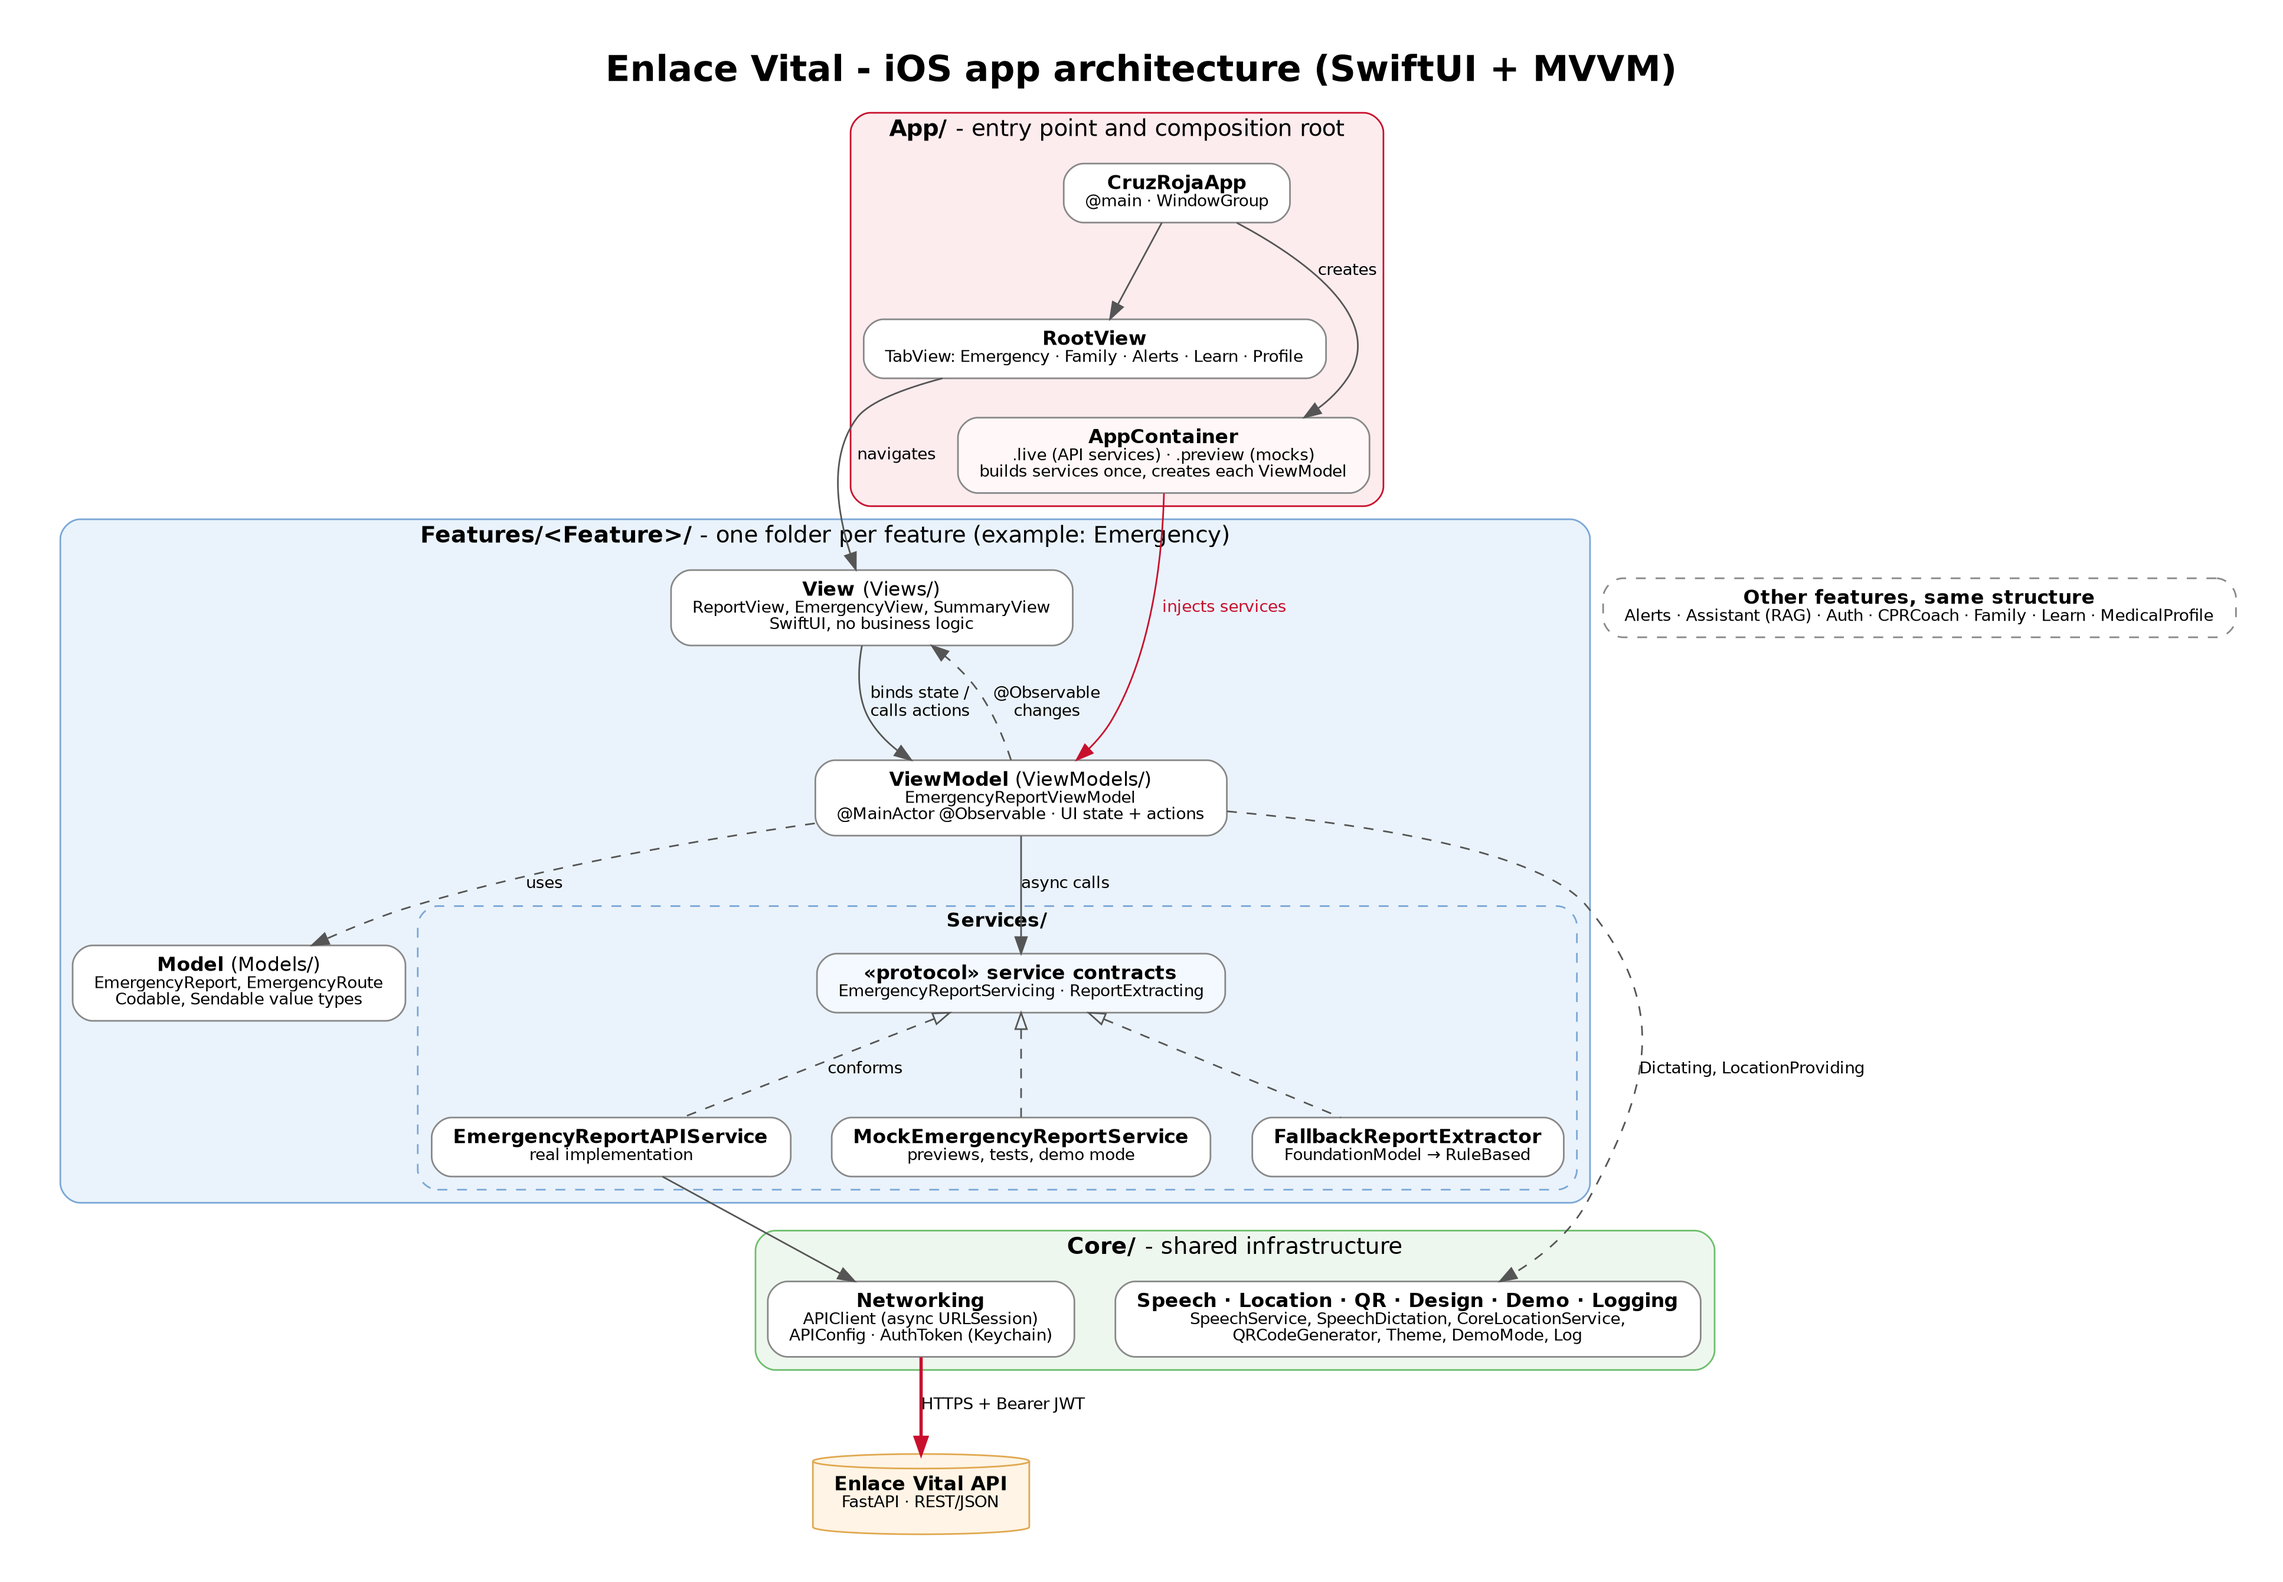
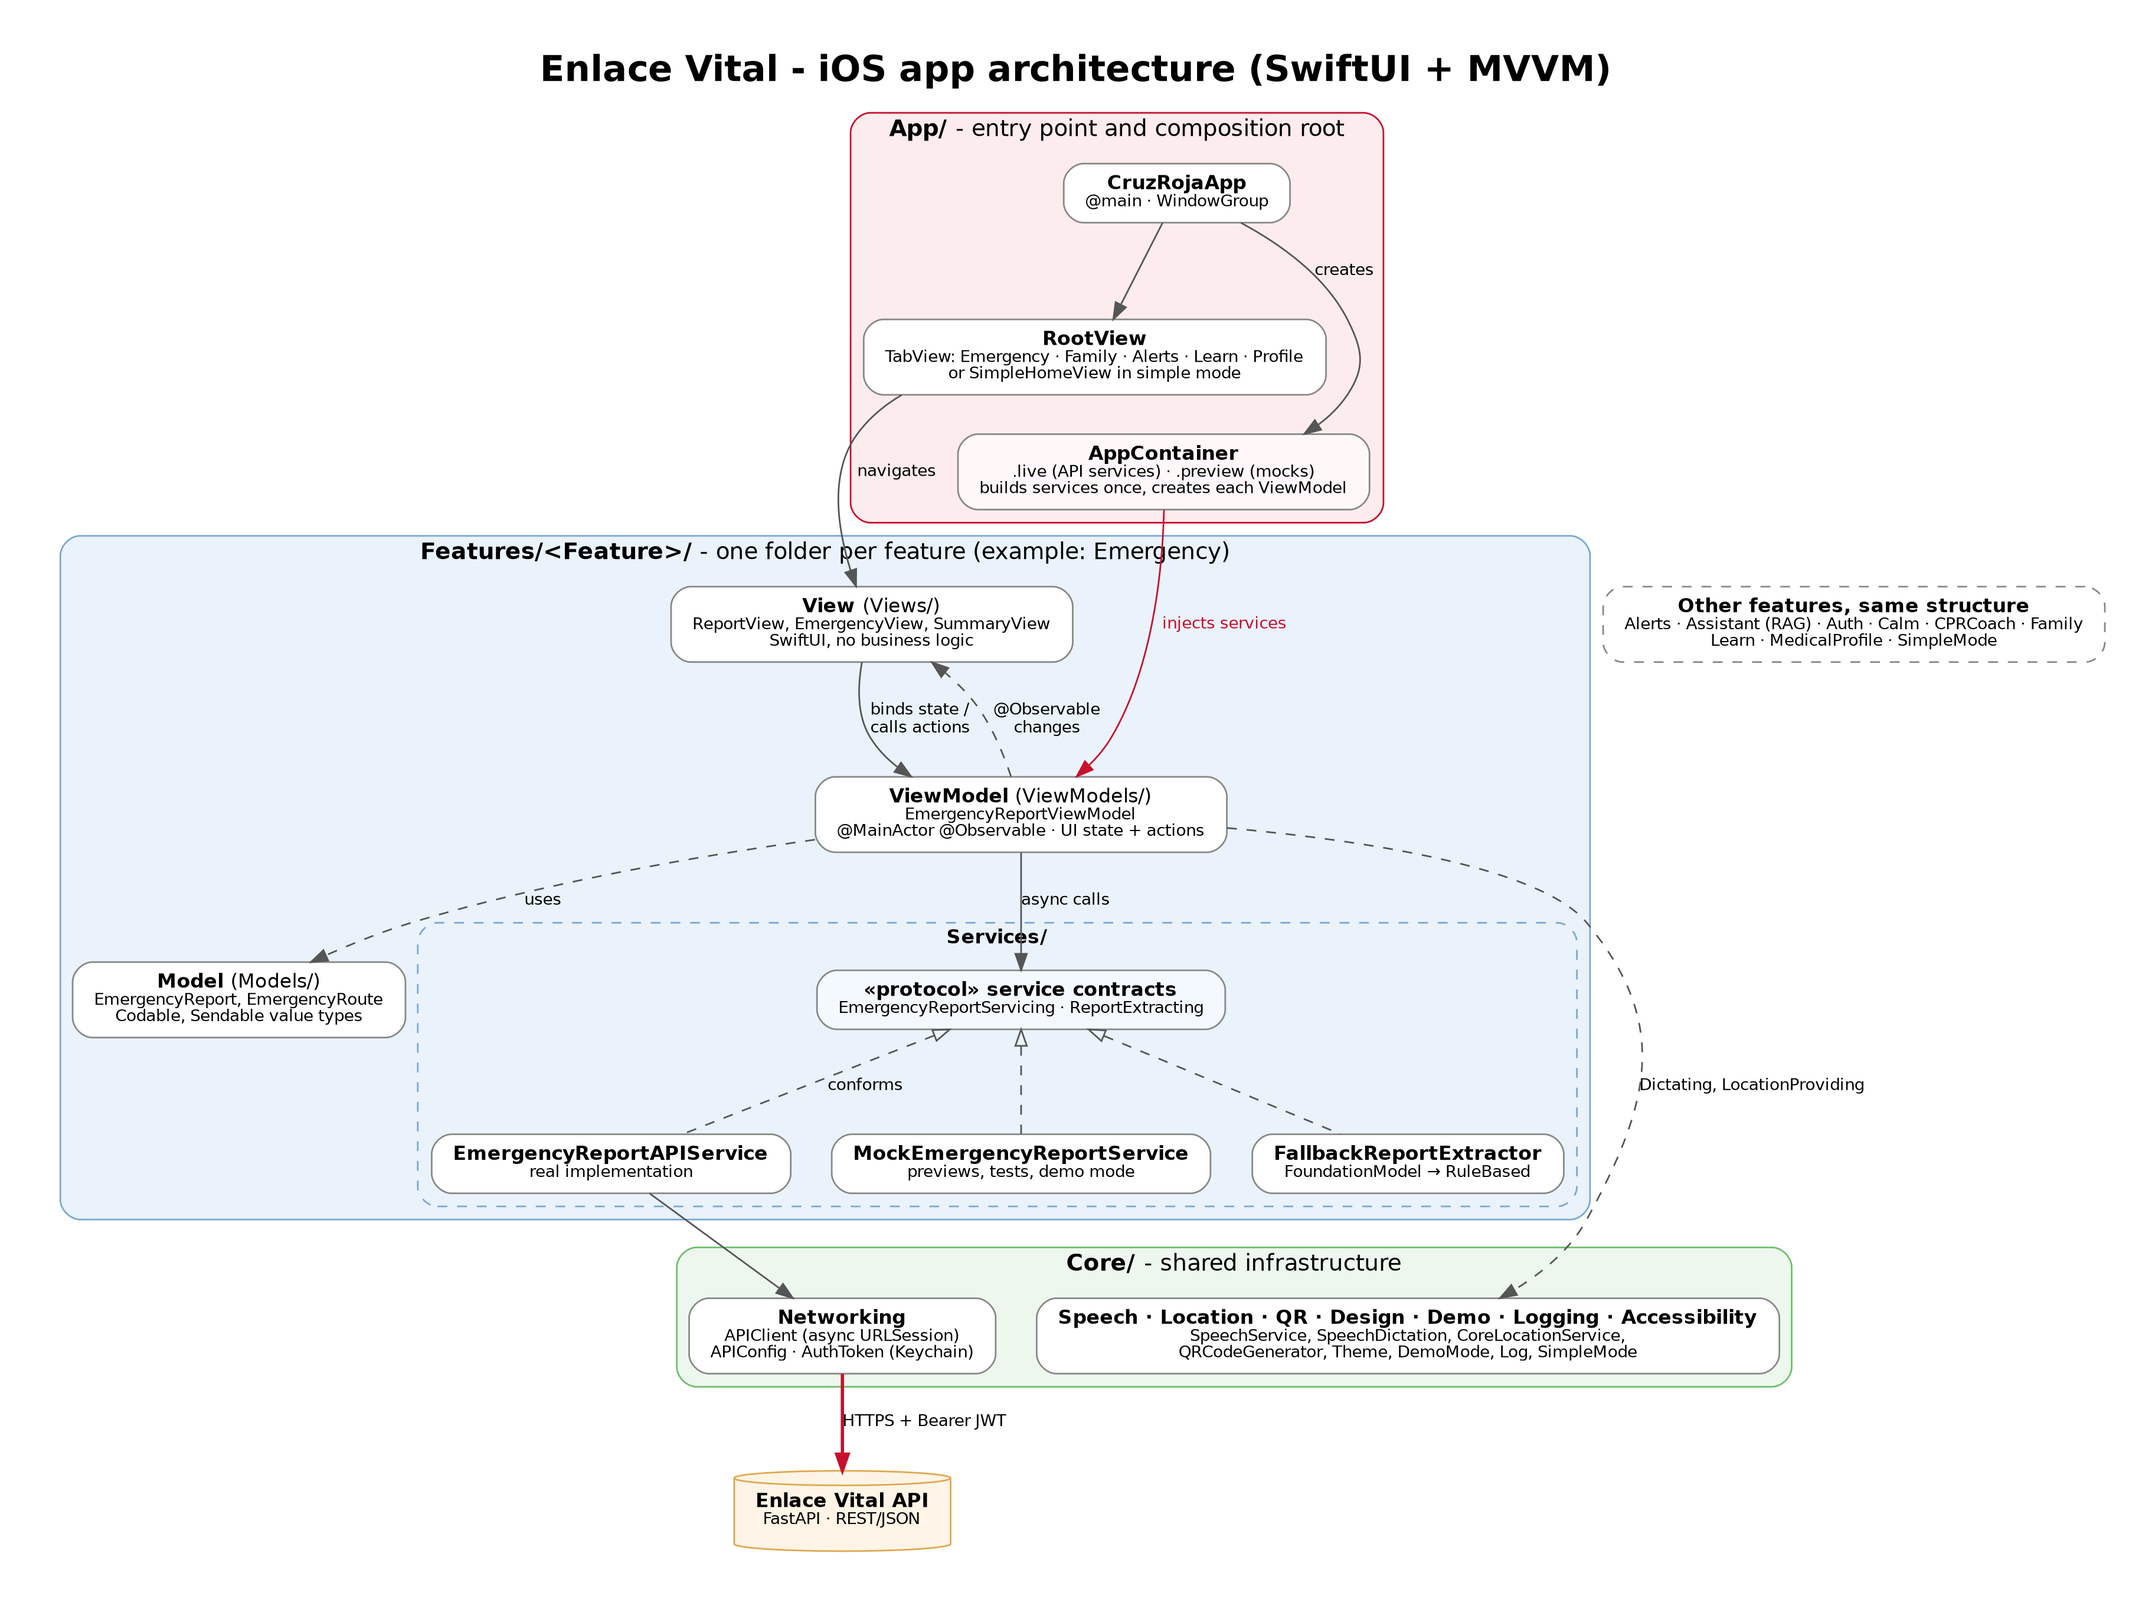
Add Calm, simple mode and App Intents to architecture diagrams

diff --git a/docs/architecture/src/gen_folders.py b/docs/architecture/src/gen_folders.py
@@ -10,6 +10,7 @@ IOS = ("CruzRoja/", "iOS app target", [
         ("QR/", "QRCodeGenerator for the medical profile", []),
         ("Demo/", "DemoMode switches for presentations", []),
         ("Logging/", "os.Logger categories", []),
+        ("Accessibility/", "SimpleMode setting", []),
     ]),
     ("Features/", "one folder per feature, same 4 subfolders", [
         ("Emergency/", "SOS, AI report, SMS to operator", [
@@ -20,6 +21,8 @@ IOS = ("CruzRoja/", "iOS app target", [
         ]),
         ("Assistant/", "first-aid guides + on-device RAG (EmbeddingGemma)", []),
         ("CPRCoach/", "camera CPR coach (Vision body pose)", []),
+        ("Calm/", "AI calm coach for panic attacks, Siri shortcut", []),
+        ("SimpleMode/", "large-button home for older adults", []),
         ("Alerts/", "official alerts + community reports", []),
         ("Family/", "family circle, wellbeing checks", []),
         ("Learn/", "lessons, videos, progress", []),
